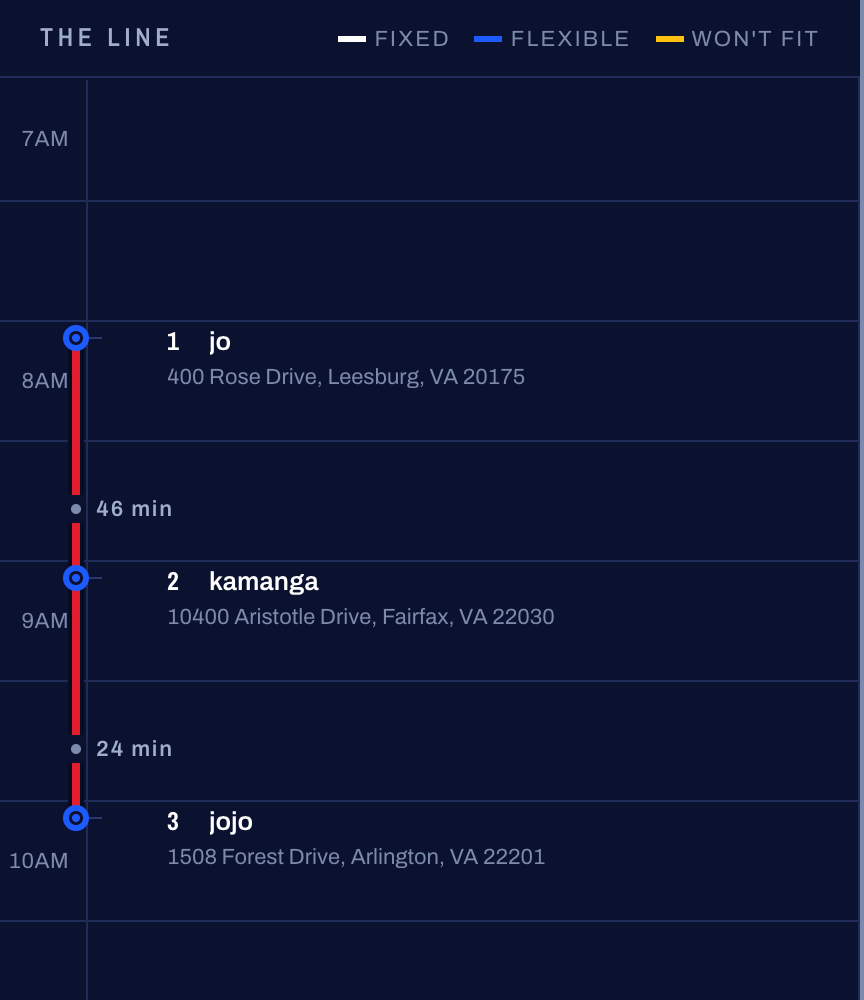
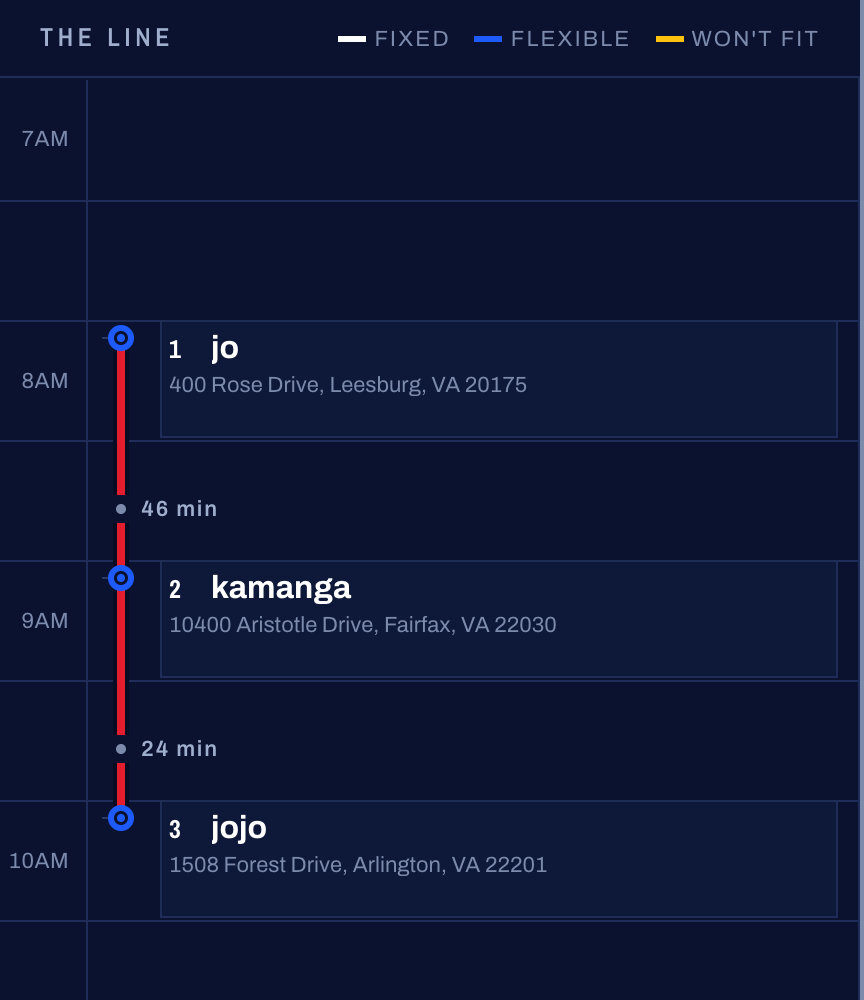
the Line: real event boxes, fix track/axis overlap, bigger titles
Events had no background at rest, making them indistinguishable from empty
grid rows. The track line measurably overlapped the time-axis text. Event
names read too close in size to their addresses.

diff --git a/style.css b/style.css
@@ -397,16 +397,20 @@ code { font-family: ui-monospace, SFMono-Regular, Menlo, monospace; font-size: .
 /* A station, not a card. Ink block on the left edge, porcelain label. */
 .fc .fc-timegrid-event,
 .fc .fc-v-event {
-  background: transparent;
-  border: 0;
+  background: var(--enamel-raise);
+  border: var(--hair) solid var(--hairline);
   border-radius: 0;
   box-shadow: none;
   padding: 0;
   margin-left: 34px;
   min-width: 0;
-  transition: background var(--t-fast) var(--ease), transform var(--t-fast) var(--ease-out);
+  transition: background var(--t-fast) var(--ease), border-color var(--t-fast) var(--ease), transform var(--t-fast) var(--ease-out);
 }
-/* The label sits on the enamel; a surface appears only when you touch it. */
+/* The connector still reaches back to the track (schedule.js's _draw()), so
+   the tick-connector-label-box still reads as one continuous object — the
+   box just now has a real surface at rest instead of only revealing one on
+   hover, which was the actual comprehension problem: an event with no
+   background at all is indistinguishable from an empty grid row. */
 .fc .fc-v-event::before {
   content: "";
   position: absolute;
@@ -416,13 +420,13 @@ code { font-family: ui-monospace, SFMono-Regular, Menlo, monospace; font-size: .
   transition: opacity var(--t-fast) var(--ease);
   pointer-events: none;
 }
-.fc .fc-v-event:hover::before { opacity: .62; }
-.fc .fc-v-event.is-selected::before { opacity: .9; }
+.fc .fc-v-event:hover::before { opacity: .85; }
+.fc .fc-v-event.is-selected::before { opacity: 1; }
 /* A batch selection (cmd/ctrl-click, shift-click range) marks membership with
    a ring rather than the hover wash above — it has to stay visible while the
    pointer is elsewhere, since that's the whole point of selecting several. */
 .fc .fc-v-event.is-multiselected { outline: 1.5px solid var(--cobalt-ink); outline-offset: -1.5px; }
-.fc .fc-v-event:hover { background: var(--enamel-hover); border-color: var(--ink-dim); }
+.fc .fc-v-event:hover { border-color: var(--ink-mid); }
 
 .fc .fc-v-event.is-unfit .ev-name { color: var(--amber); }
 .fc .fc-v-event.is-nogeo .ev-name { color: var(--ink-mid); }
@@ -454,7 +458,7 @@ code { font-family: ui-monospace, SFMono-Regular, Menlo, monospace; font-size: .
   flex: none; min-width: 13px;
 }
 .ev-name {
-  font-weight: 600; font-size: var(--fs-2); line-height: var(--lh-label);
+  font-weight: 700; font-size: var(--fs-3); line-height: var(--lh-label);
   color: var(--porcelain);
   white-space: nowrap; overflow: hidden; text-overflow: ellipsis;
   /* The name is what identifies the stop; it must survive before anything

diff --git a/schedule.js b/schedule.js
@@ -418,7 +418,14 @@ export class Schedule {
     const colLeft = probe
       ? probe.getBoundingClientRect().left - box.left
       : (label ? label.getBoundingClientRect().width : 44);
-    const TRACK_X = Math.max(20, colLeft) + TRACK_GUTTER;
+    // The nominal column boundary isn't enough on its own: the axis text
+    // (fc-timegrid-slot-label-cushion) can render wider than its own reserved
+    // column at the current font size and overflow past it — measured, not
+    // assumed, after the track was found sitting 4.5px inside "7am"'s own
+    // rendered text. Clear whichever edge is actually further right.
+    const axisText = this.els.calendar.querySelector('.fc-timegrid-slot-label-cushion');
+    const axisRight = axisText ? axisText.getBoundingClientRect().right - box.left : 0;
+    const TRACK_X = Math.max(20, colLeft, axisRight) + TRACK_GUTTER;
 
     const nodes = [...this.els.calendar.querySelectorAll('.fc-timegrid-event-harness')];
     const stations = nodes.map((n) => {
